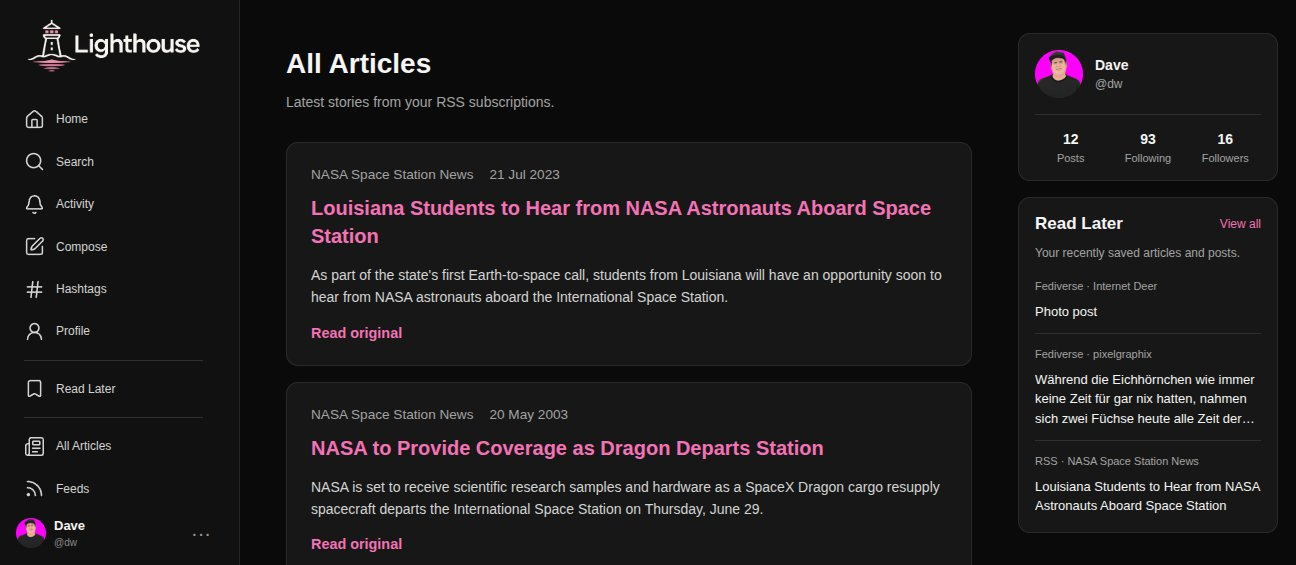
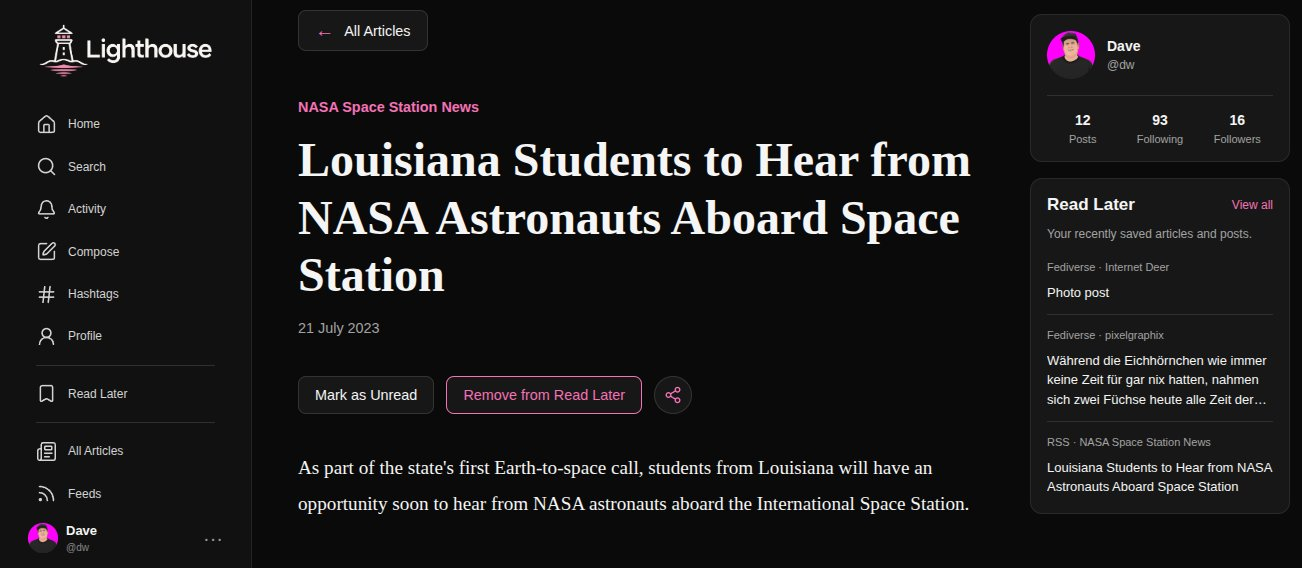
Add RSS article sharing and URL sanitization

diff --git a/src/routes/reading/articles/[id]/+page.svelte b/src/routes/reading/articles/[id]/+page.svelte
@@ -1,6 +1,8 @@
 <script lang="ts">
   import { onMount } from 'svelte';
   import { page } from '$app/state';
+  import { Share2 } from '@lucide/svelte';
+  import { cleanUrl } from '../../../../lib/utils/cleanUrl';
 
   type Article = {
     id: number;
@@ -19,6 +21,24 @@
   let error = $state('');
   let actionLoading = $state(false);
 let actionError = $state('');
+
+function shareArticle() {
+  if (!article) return;
+
+  const escapeMarkdown = (value: string) =>
+    value.replaceAll('\\', '\\\\')
+      .replaceAll('[', '\\[')
+      .replaceAll(']', '\\]');
+
+  const title = escapeMarkdown(article.title);
+  const feed = escapeMarkdown(article.source);
+  const url = cleanUrl(article.url);
+
+  const markdown = `🔗 [${title} | ${feed}](${url})`;
+
+  window.location.href =
+    `/?view=Compose&share=${encodeURIComponent(markdown)}`;
+}
 
 async function updateArticle(action: 'read' | 'saved', value: boolean) {
   if (!article || actionLoading) return;
@@ -130,6 +150,16 @@ async function updateArticle(action: 'read' | 'saved', value: boolean) {
     onclick={() => article && updateArticle('saved', !article.saved)}
   >
     {article.saved ? 'Remove from Read Later' : 'Save to Read Later'}
+  </button>
+
+  <button
+    class="share-article-button"
+    type="button"
+    onclick={shareArticle}
+    title="Share to Fediverse"
+    aria-label="Share to Fediverse"
+  >
+    <Share2 size={18} strokeWidth={1.8} />
   </button>
 </div>
 
@@ -306,4 +336,23 @@ async function updateArticle(action: 'read' | 'saved', value: boolean) {
   color: #fda4af;
   font-family: Manrope, sans-serif;
 }
+
+  .article-actions button.share-article-button {
+    display: inline-flex;
+    align-items: center;
+    justify-content: center;
+    flex: 0 0 38px;
+    width: 38px;
+    height: 38px;
+    padding: 0;
+    border-radius: 50%;
+    color: #f472b6;
+    cursor: pointer;
+  }
+
+  .article-actions button.share-article-button:hover {
+    color: #f9a8d4;
+    border-color: #f472b6;
+  }
+
 </style>

diff --git a/src/routes/+page.svelte b/src/routes/+page.svelte
@@ -1,4 +1,5 @@
 <script lang="ts">
+  import { cleanUrl } from '../lib/utils/cleanUrl';
 import ReadLaterPanel from '#lib/components/lighthouse/ReadLaterPanel.svelte';
 import ProfileSummary from '#lib/components/lighthouse/ProfileSummary.svelte';
   import { onMount } from 'svelte';
@@ -1477,7 +1478,7 @@ async function sharePost(post: Post) {
   }
 
   try {
-    await navigator.clipboard.writeText(post.postUrl);
+    await navigator.clipboard.writeText(cleanUrl(post.postUrl));
     publishSuccess = 'Post link copied to clipboard.';
   } catch {
     publishError = 'Could not copy the post link.';
@@ -1495,6 +1496,24 @@ const navigation = [
   onMount(() => {
     if (requestedView && fediverseViews.includes(requestedView)) {
       handleFediverseNavigation(requestedView);
+    }
+
+    if (requestedView === 'Compose') {
+      const url = new URL(window.location.href);
+      const sharedArticle = url.searchParams.get('share');
+
+      if (sharedArticle && !composeText.trim()) {
+        composeText = sharedArticle;
+      }
+
+      if (sharedArticle !== null) {
+        url.searchParams.delete('share');
+        window.history.replaceState(
+          window.history.state,
+          '',
+          url.pathname + url.search + url.hash
+        );
+      }
     }
   });
 

diff --git a/src/lib/utils/cleanUrl.ts b/src/lib/utils/cleanUrl.ts
@@ -1,0 +1,45 @@
+const trackingParameters = new Set([
+  'fbclid',
+  'gclid',
+  'dclid',
+  'msclkid',
+  'gbraid',
+  'wbraid',
+  'igshid',
+  'mc_cid',
+  'mc_eid',
+  'mkt_tok',
+  'vero_id',
+  'oly_enc_id',
+  'oly_anon_id',
+  '_hsenc',
+  '_hsmi',
+  'hsctatracking',
+  'ref_src',
+  'ref_url'
+]);
+
+export function cleanUrl(value: string): string {
+  try {
+    const url = new URL(value);
+
+    if (url.protocol !== 'http:' && url.protocol !== 'https:') {
+      return value;
+    }
+
+    for (const key of [...url.searchParams.keys()]) {
+      const normalized = key.toLowerCase();
+
+      if (
+        normalized.startsWith('utm_') ||
+        trackingParameters.has(normalized)
+      ) {
+        url.searchParams.delete(key);
+      }
+    }
+
+    return url.toString();
+  } catch {
+    return value;
+  }
+}

diff --git a/src/routes/+layout.svelte b/src/routes/+layout.svelte
@@ -15,6 +15,7 @@
 </script>
 
 <svelte:head>
+  <link rel="me" href="https://fedi.davewinter.link/@dw" />
   <link rel="icon" href={favicon} />
 </svelte:head>
 

diff --git a/README.md b/README.md
@@ -16,6 +16,10 @@ I built it primarily for myself, concentrating on the features I use rather than
 
 ![Lighthouse RSS article list](docs/screenshots/articles.jpg)
 
+### Fediverse composer
+
+![Lighthouse Fediverse composer](docs/screenshots/compose.jpg)
+
 ### Article reader
 
 ![Lighthouse article reader](docs/screenshots/reader.jpg)
@@ -51,6 +55,27 @@ I built it primarily for myself, concentrating on the features I use rather than
 
 - One responsive interface for the Fediverse and RSS
 - A shared Read Later view with Fediverse bookmarks and saved RSS articles
+
+## Article sharing and link sanitization
+
+Lighthouse lets you share RSS articles directly to the Fediverse.
+
+The Share button in the article reader opens the existing composer with a prefilled Markdown link:
+
+`🔗 [Article Title | Feed Name](https://example.com/article)`
+
+You can edit the draft before publishing. Nothing is posted automatically.
+
+### Clean links
+
+Lighthouse automatically removes common tracking parameters from URLs when:
+
+- Sharing an RSS article to the Fediverse composer.
+- Copying a Fediverse post link.
+
+The sanitizer removes known tracking identifiers such as `utm_*`, `fbclid`, `gclid`, and `msclkid`, while preserving other query parameters that may be necessary for the link to work.
+
+The original RSS article URL remains unchanged. This is a conservative tracking-parameter cleaner rather than a comprehensive privacy-filtering service.
 
 ## Appearance
 
